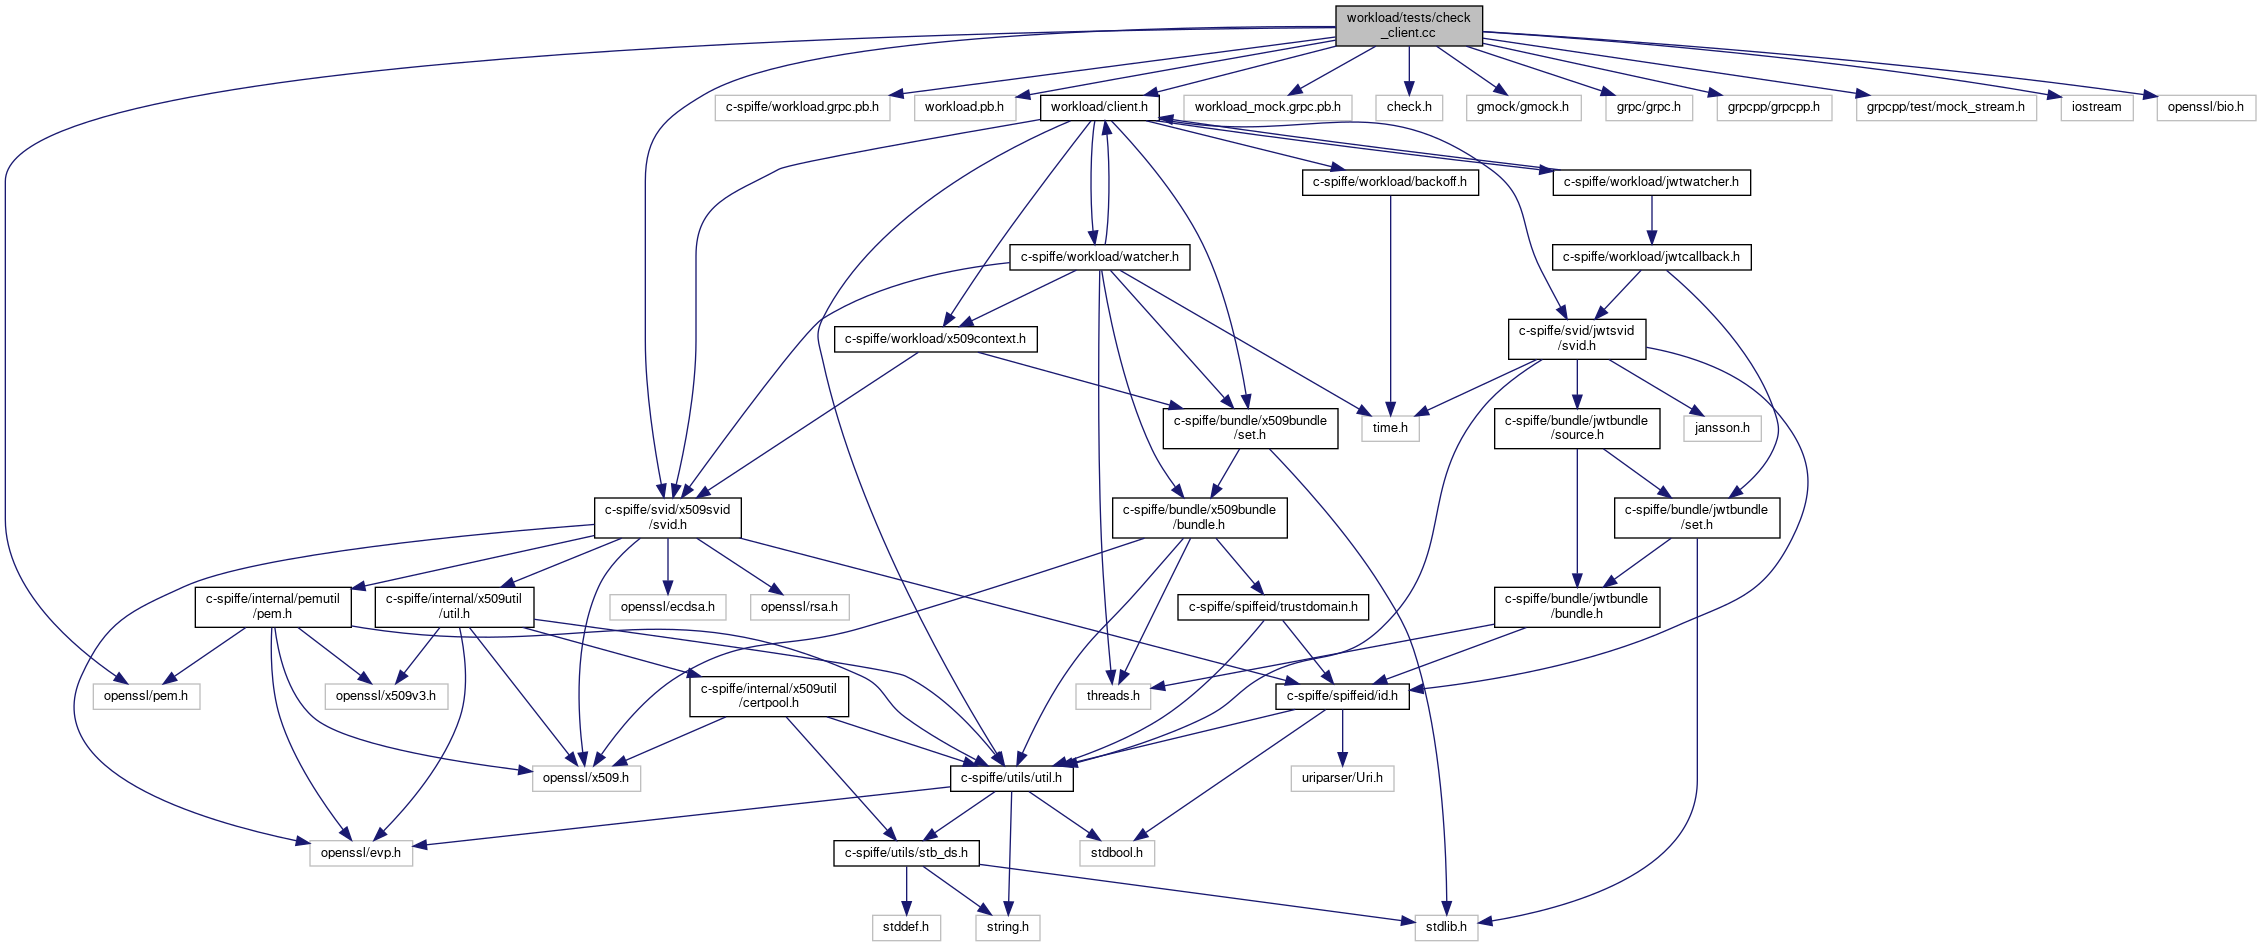
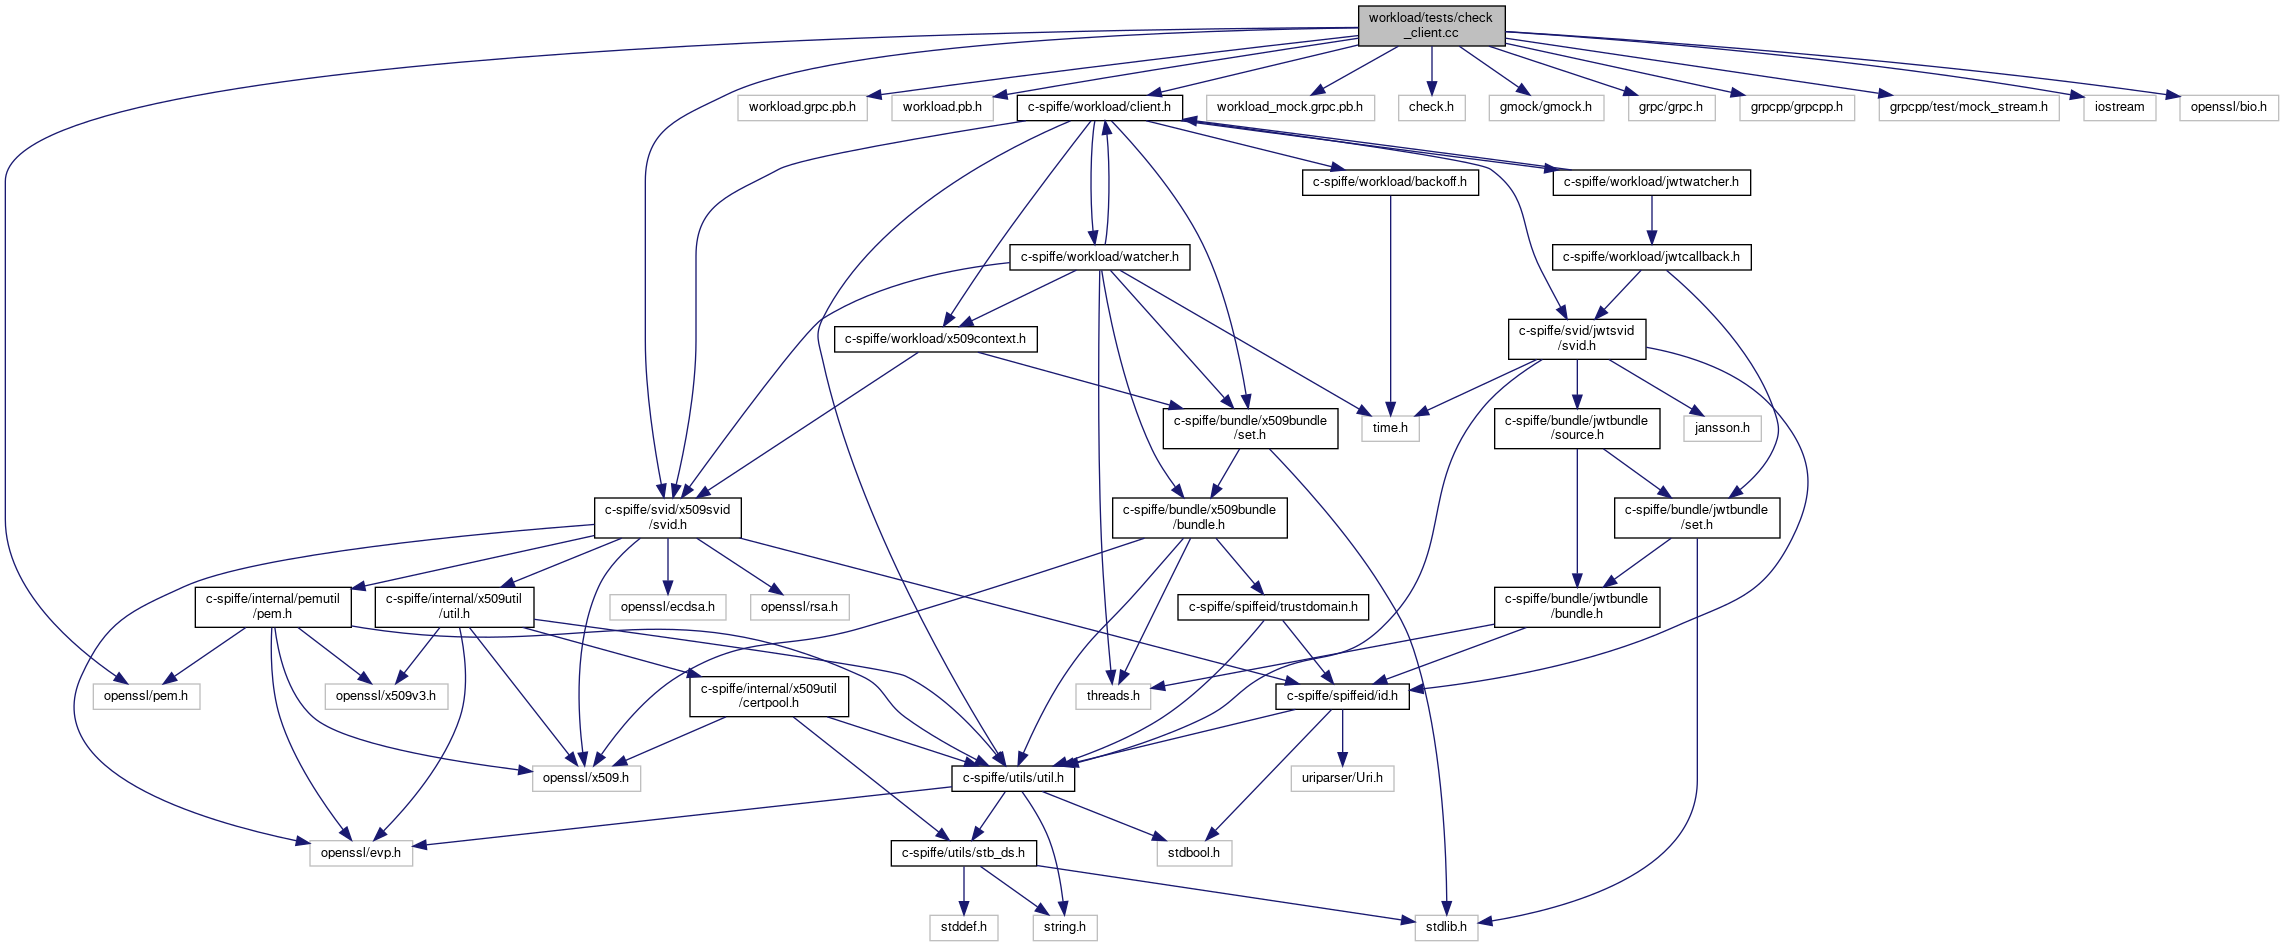
deploy: 49540cfdd0a0744b552e38e01da8726600b5fbf1

diff --git a/check__client_8cc.html b/check__client_8cc.html
@@ -75,9 +75,9 @@ $(function() {
 </div><!--header-->
 <div class="contents">
 <div class="textblock"><code>#include &quot;<a class="el" href="x509svid_2svid_8h_source.html">c-spiffe/svid/x509svid/svid.h</a>&quot;</code><br />
-<code>#include &quot;c-spiffe/workload.grpc.pb.h&quot;</code><br />
+<code>#include &quot;workload.grpc.pb.h&quot;</code><br />
 <code>#include &quot;workload.pb.h&quot;</code><br />
-<code>#include &quot;<a class="el" href="client_8h_source.html">workload/client.h</a>&quot;</code><br />
+<code>#include &quot;<a class="el" href="client_8h_source.html">c-spiffe/workload/client.h</a>&quot;</code><br />
 <code>#include &quot;workload_mock.grpc.pb.h&quot;</code><br />
 <code>#include &lt;check.h&gt;</code><br />
 <code>#include &lt;gmock/gmock.h&gt;</code><br />
@@ -92,20 +92,20 @@ Include dependency graph for check_client.cc:</div>
 <div class="dyncontent">
 <div class="center"><img src="check__client_8cc__incl.png" border="0" usemap="#aworkload_2tests_2check__client_8cc" alt=""/></div>
 <map name="aworkload_2tests_2check__client_8cc" id="aworkload_2tests_2check__client_8cc">
-<area shape="rect" title=" " alt="" coords="1336,5,1483,47"/>
+<area shape="rect" title=" " alt="" coords="1359,5,1505,47"/>
 <area shape="rect" href="x509svid_2svid_8h.html" title=" " alt="" coords="595,497,741,539"/>
 <area shape="rect" title=" " alt="" coords="93,683,200,710"/>
-<area shape="rect" title=" " alt="" coords="715,95,890,121"/>
-<area shape="rect" title=" " alt="" coords="915,95,1016,121"/>
-<area shape="rect" href="client_8h.html" title=" " alt="" coords="1041,95,1159,121"/>
-<area shape="rect" title=" " alt="" coords="1184,95,1352,121"/>
-<area shape="rect" title=" " alt="" coords="1376,95,1443,121"/>
-<area shape="rect" title=" " alt="" coords="1467,95,1581,121"/>
-<area shape="rect" title=" " alt="" coords="1606,95,1693,121"/>
-<area shape="rect" title=" " alt="" coords="1717,95,1832,121"/>
-<area shape="rect" title=" " alt="" coords="1857,95,2037,121"/>
-<area shape="rect" title=" " alt="" coords="2061,95,2133,121"/>
-<area shape="rect" title=" " alt="" coords="2157,95,2256,121"/>
+<area shape="rect" title=" " alt="" coords="738,95,867,121"/>
+<area shape="rect" title=" " alt="" coords="892,95,993,121"/>
+<area shape="rect" href="client_8h.html" title=" " alt="" coords="1017,95,1183,121"/>
+<area shape="rect" title=" " alt="" coords="1207,95,1375,121"/>
+<area shape="rect" title=" " alt="" coords="1399,95,1465,121"/>
+<area shape="rect" title=" " alt="" coords="1489,95,1604,121"/>
+<area shape="rect" title=" " alt="" coords="1629,95,1715,121"/>
+<area shape="rect" title=" " alt="" coords="1740,95,1855,121"/>
+<area shape="rect" title=" " alt="" coords="1879,95,2059,121"/>
+<area shape="rect" title=" " alt="" coords="2084,95,2156,121"/>
+<area shape="rect" title=" " alt="" coords="2180,95,2279,121"/>
 <area shape="rect" href="pem_8h.html" title=" " alt="" coords="195,587,351,628"/>
 <area shape="rect" title=" " alt="" coords="310,840,413,867"/>
 <area shape="rect" title=" " alt="" coords="533,765,641,792"/>
@@ -113,12 +113,12 @@ Include dependency graph for check_client.cc:</div>
 <area shape="rect" href="id_8h.html" title=" " alt="" coords="1276,683,1409,710"/>
 <area shape="rect" title=" " alt="" coords="610,594,726,621"/>
 <area shape="rect" title=" " alt="" coords="751,594,849,621"/>
-<area shape="rect" href="utils_2util_8h.html" title=" " alt="" coords="951,765,1073,792"/>
+<area shape="rect" href="utils_2util_8h.html" title=" " alt="" coords="952,765,1075,792"/>
 <area shape="rect" title=" " alt="" coords="325,683,448,710"/>
-<area shape="rect" href="stb__ds_8h.html" title=" " alt="" coords="834,840,979,867"/>
-<area shape="rect" title=" " alt="" coords="976,915,1040,941"/>
-<area shape="rect" title=" " alt="" coords="1080,840,1155,867"/>
-<area shape="rect" title=" " alt="" coords="873,915,941,941"/>
+<area shape="rect" href="stb__ds_8h.html" title=" " alt="" coords="891,840,1037,867"/>
+<area shape="rect" title=" " alt="" coords="1033,915,1097,941"/>
+<area shape="rect" title=" " alt="" coords="1157,840,1232,867"/>
+<area shape="rect" title=" " alt="" coords="930,915,998,941"/>
 <area shape="rect" title=" " alt="" coords="1415,915,1478,941"/>
 <area shape="rect" href="certpool_8h.html" title=" " alt="" coords="690,676,849,717"/>
 <area shape="rect" title=" " alt="" coords="1291,765,1394,792"/>

diff --git a/internal_2jwtutil_2tests_2check__util_8c.html b/internal_2jwtutil_2tests_2check__util_8c.html
@@ -77,7 +77,7 @@ $(function() {
 <div class="textblock"><code>#include &quot;<a class="el" href="internal_2jwtutil_2util_8h_source.html">c-spiffe/internal/jwtutil/util.h</a>&quot;</code><br />
 <code>#include &lt;check.h&gt;</code><br />
 <code>#include &lt;openssl/pem.h&gt;</code><br />
-<code>#include &quot;<a class="el" href="stb__ds_8h_source.html">utils/stb_ds.h</a>&quot;</code><br />
+<code>#include &quot;<a class="el" href="stb__ds_8h_source.html">c-spiffe/utils/stb_ds.h</a>&quot;</code><br />
 </div><div class="textblock"><div class="dynheader">
 Include dependency graph for check_util.c:</div>
 <div class="dyncontent">

diff --git a/check__pem_8c.html b/check__pem_8c.html
@@ -76,7 +76,7 @@ $(function() {
 <div class="contents">
 <div class="textblock"><code>#include &quot;<a class="el" href="pem_8h_source.html">c-spiffe/internal/pemutil/pem.h</a>&quot;</code><br />
 <code>#include &lt;check.h&gt;</code><br />
-<code>#include &quot;<a class="el" href="stb__ds_8h_source.html">utils/stb_ds.h</a>&quot;</code><br />
+<code>#include &quot;<a class="el" href="stb__ds_8h_source.html">c-spiffe/utils/stb_ds.h</a>&quot;</code><br />
 </div><div class="textblock"><div class="dynheader">
 Include dependency graph for check_pem.c:</div>
 <div class="dyncontent">
